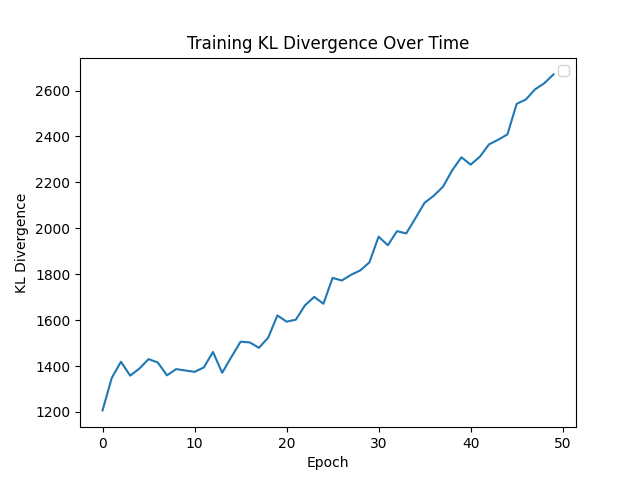
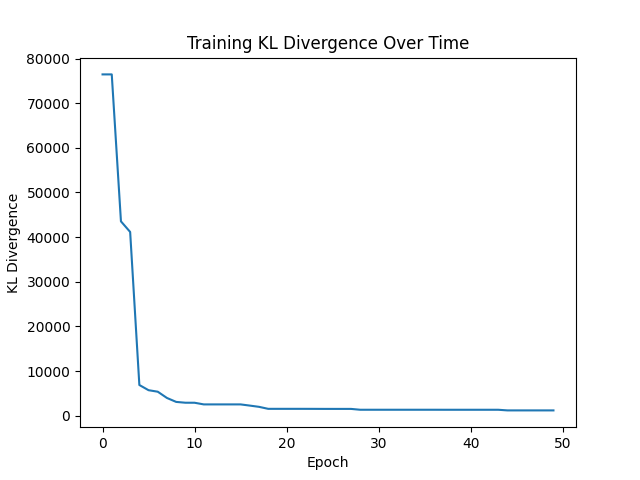
Updated Boltzmann machine class to be fully visible Changed calculation of KL-divergence (Actually converges now) Normalized training data Removed legend from plots

diff --git a/Assignment 2/main.py b/Assignment 2/main.py
@@ -21,47 +21,35 @@ if __name__ == "__main__":
 
 # Boltzmann Machine class
 class BoltzmannMachine(nn.Module):
-    def __init__(self, num_visible, num_hidden, batch_size=100, k=1):
+    def __init__(self, num_visible, batch_size=100, gibbs_steps=10):
         super(BoltzmannMachine, self).__init__()
         self.num_visible = num_visible
-        self.num_hidden = num_hidden
         self.batch_size = batch_size
-        self.k = k
+        self.gibbs_steps = gibbs_steps
         
         # Initialize weights and biases
-        self.weights = nn.Parameter(torch.randn(num_hidden, num_visible))
-        self.bias_v = nn.Parameter(torch.zeros(num_visible))
-        self.bias_h = nn.Parameter(torch.zeros(num_hidden))
+        self.weights = nn.Parameter(torch.randn(num_visible, num_visible))
+        self.bias = nn.Parameter(torch.zeros(num_visible))
         
     def forward(self, visible_nodes):
-        prob_hidden, hidden = self.visToHid(visible_nodes)
-        
-        for i in range(self.k):
-            prob_visible, visible = self.hidToVis(hidden)
-            prob_hidden, hidden = self.visToHid(visible)    
-        
+        for _ in range(self.gibbs_steps):
+            prob_visible, visible = self.visToVis(visible_nodes)
         return prob_visible 
 
     def free_energy(self, visible_nodes):
         # Calculate the free energy of the system
-        visible_bias_term = visible_nodes.mv(self.bias_v)
-        wx_b = F.linear(visible_nodes, self.weights, self.bias_h)
-        hidden_term = wx_b.exp().add(1).log().sum(1)
-        #hidden_term = torch.log(1 + torch.exp(wx_b)).sum(1)
-        return (-hidden_term - visible_bias_term).mean()
+        visible_bias_term = visible_nodes.mv(self.bias)
+        wx_b = F.linear(visible_nodes, self.weights, self.bias)
+        visible_term = wx_b.exp().add(1).log().sum(1)
+        return (-visible_term - visible_bias_term).mean()
 
     def sample(self, prob):
         # Sample from a Bernoulli distribution
         #return F.relu(torch.sign(prob - torch.rand_like(prob.size())))
         return torch.distributions.Bernoulli(prob).sample()
 
-    def visToHid(self, visible_nodes):
-        prob_hid = F.sigmoid(F.linear(visible_nodes, self.weights, self.bias_h))
-        sample_hid = self.sample(prob_hid)
-        return prob_hid, sample_hid
-    
-    def hidToVis(self, hidden_nodes):
-        prob_vis = F.sigmoid(F.linear(hidden_nodes, self.weights.t(), self.bias_v))
+    def visToVis(self, visible_nodes):
+        prob_vis = F.sigmoid(F.linear(visible_nodes, self.weights, self.bias))
         sample_vis = self.sample(prob_vis)
         return prob_vis, sample_vis
 
@@ -78,10 +66,17 @@ class BoltzmannMachine(nn.Module):
             # Shuffle the training data
             training_data = training_data[torch.randperm(training_data.size()[0])]
 
+            # Assuming training_data is your data tensor
+            min_val = torch.min(training_data)
+            max_val = torch.max(training_data)
+
+            # Min-Max normalization
+            normalized_training_data = (training_data - min_val) / (max_val - min_val)
+
             # Batch training
-            for i in range(0, training_data.size()[0], self.batch_size):
+            for i in range(0, normalized_training_data.size()[0], self.batch_size):
                 # Get the mini-batch
-                mini_batch = training_data[i:i+self.batch_size]
+                mini_batch = normalized_training_data[i:i+self.batch_size]
 
                 # Perform one step of CD
                 initial_visible_units = mini_batch
@@ -89,28 +84,19 @@ class BoltzmannMachine(nn.Module):
                 visible_units_after_k_steps = self.forward(initial_visible_units)
                 loss = torch.mean(self.free_energy(initial_visible_units)) - torch.mean(self.free_energy(visible_units_after_k_steps))
                 
-                #initial_hidden_probabilities, _ = self.visToHid(initial_visible_units)
-                #hidden_probabilities_after_k_steps, _ = self.visToHid(visible_units_after_k_steps)
-
-                # Compute the loss
-                #loss = torch.mean(self.free_energy(initial_visible_units)) - torch.mean(self.free_energy(visible_units_after_k_steps))
-
                 # Backward pass
                 optimizer.zero_grad()
                 loss.backward()
-                torch.nn.utils.clip_grad_norm_(self.parameters(), max_norm=1)
+                #torch.nn.utils.clip_grad_norm_(self.parameters(), max_norm=1)
                 optimizer.step()
-            
-            
-            
-
-            normalized_training_data = (training_data + 1) / 2
-            #print(self.forward(normalized_training_data))
-            #print(normalized_training_data / self.forward(normalized_training_data))
-            #print(torch.log(normalized_training_data / self.forward(normalized_training_data)))
-            
+                        
             # Compute the KL divergence
-            kl_divergence = torch.sum(normalized_training_data * torch.log(normalized_training_data / self.forward(normalized_training_data) + 1e-5))
+            # Compute the KL divergence
+            model_samples = self.forward(normalized_training_data).detach()
+            model_samples_distribution = torch.histc(model_samples, bins=10, min=0, max=1)
+            training_data_distribution = torch.histc(normalized_training_data, bins=10, min=0, max=1)
+
+            kl_divergence = torch.sum(training_data_distribution * torch.log((training_data_distribution / (model_samples_distribution + 1e-5)) + 1e-5))
 
             # Print the loss for this epoch
             print('Epoch: {}, Loss: {}, KL Divergence: {}'.format(epoch+1, loss, kl_divergence))

diff --git a/Assignment 2/plot.py b/Assignment 2/plot.py
@@ -13,8 +13,6 @@ def plot_loss(epochs, losses):
     plt.xlabel('Epoch')
     plt.ylabel('Loss')
     plt.title('Training Loss Over Time')
-    plt.legend()
-
     # Save the plot to a file
     plt.savefig('loss_plot.png')
     plt.close()
@@ -23,7 +21,5 @@ def plot_loss(epochs, losses):
     plt.xlabel('Epoch')
     plt.ylabel('KL Divergence')
     plt.title('Training KL Divergence Over Time')
-    plt.legend()
-
     # Save the plot to a file
     plt.savefig('KL_plot.png')
